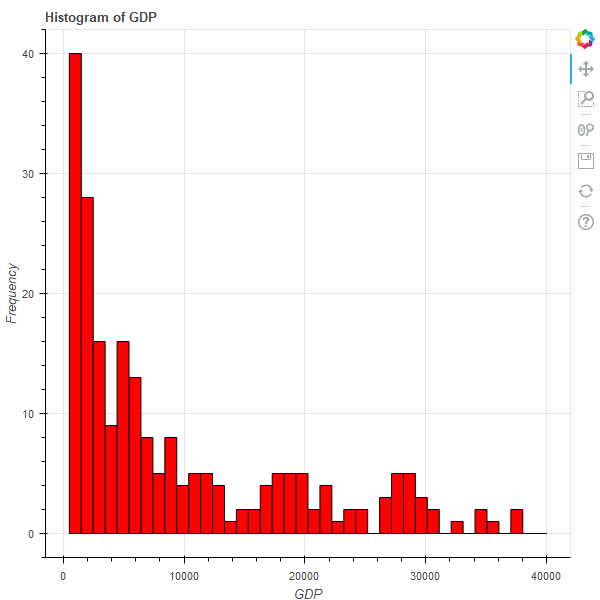
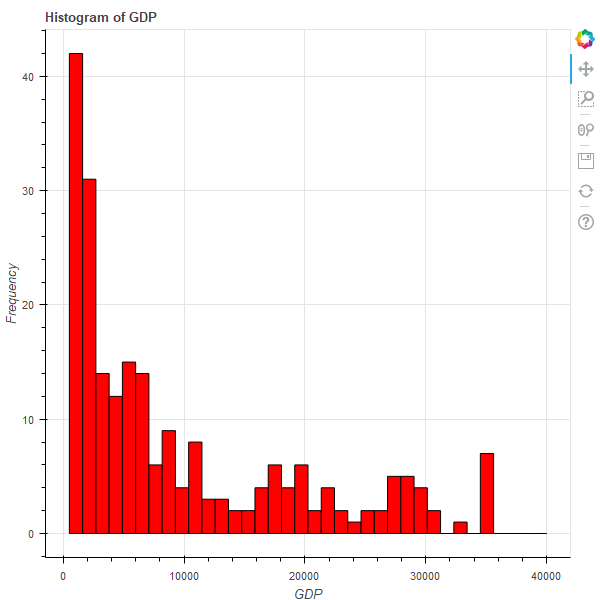
Change 15:36

diff --git a/Homework/week-2/dta.py b/Homework/week-2/dta.py
@@ -75,6 +75,10 @@ def histogram(file, selection):
     # put the filtered data in a dataframe
     list = pd.DataFrame(list)
 
+    # get the number where 98% is countries are above
+    quantile_098 = list.quantile(0.98).tolist()
+    list = list.clip(float(list.min()), float(quantile_098[0]))
+
     # calculates the mean, mode, median for the GDP
     mean = list.mean()
     median = list.median()
@@ -89,14 +93,13 @@ def histogram(file, selection):
     interval = 1000
     data = np.array(list)
     data = data[~np.isnan(data)]
-    array_hist, edges = np.histogram(data, bins = int((list.min() + max_value)/interval),
+    array_hist, edges = np.histogram(data, bins = int((list.min() + quantile_098[0])/interval),
                                      range = [int(list.min()), max_value])
 
     # makes histogram
     histogram_gdp = pd.DataFrame({'number': array_hist,
                                   'left': edges[:-1],
                                   'right': edges[1:]})
-    print(histogram_gdp)
     histogram = figure(title="Histogram of GDP")
     histogram.xaxis.axis_label = "GDP"
     histogram.yaxis.axis_label = "Frequency"
